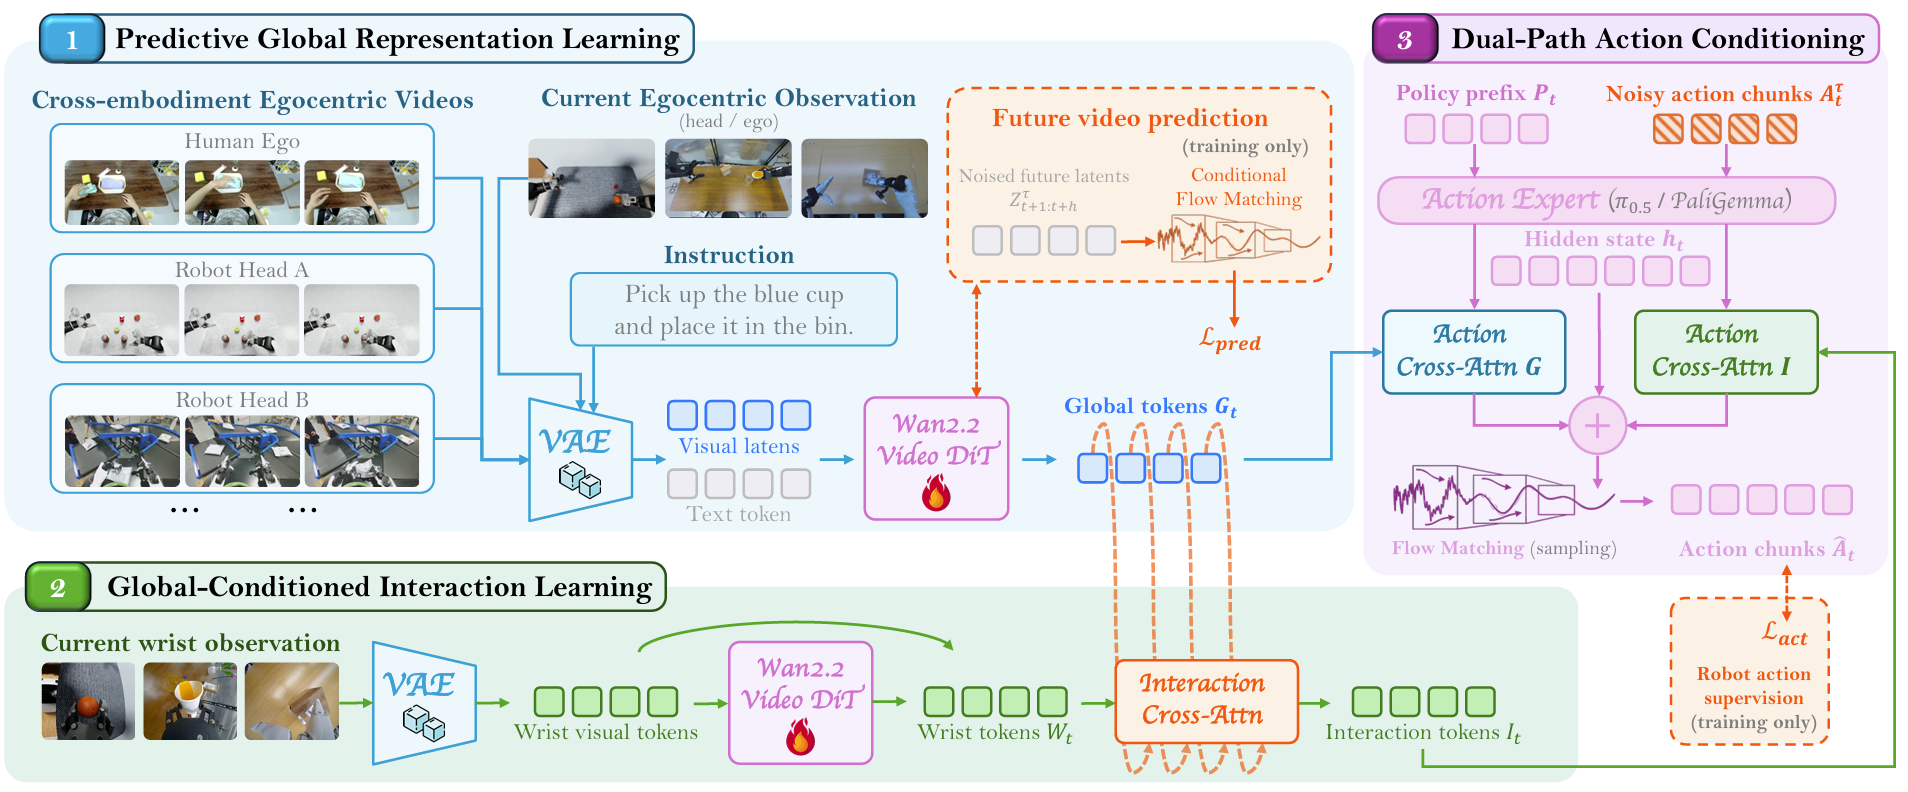
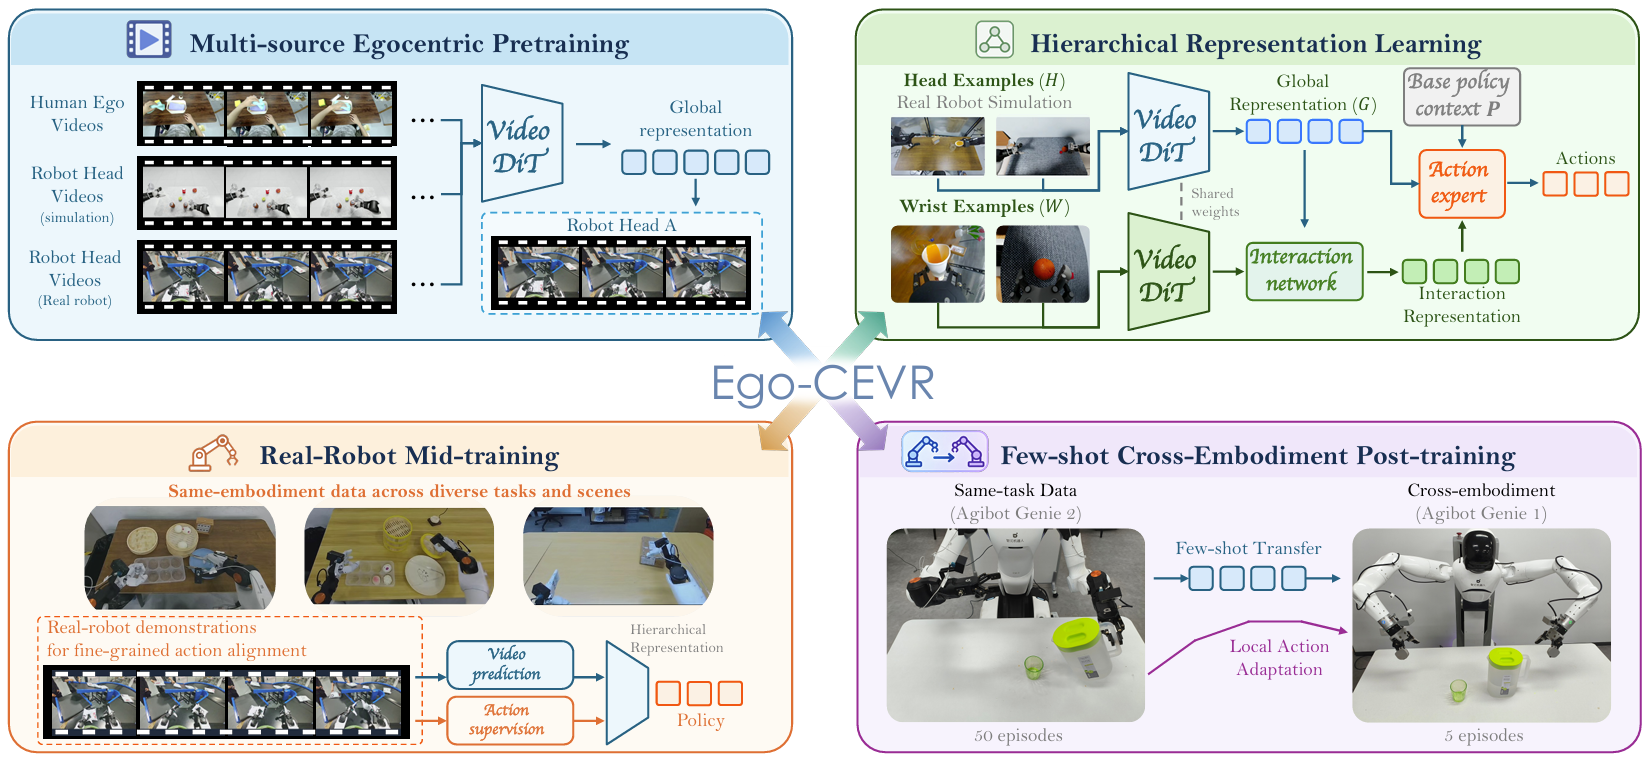
简历更新

diff --git a/_pages/about.md b/_pages/about.md
@@ -114,7 +114,7 @@ redirect_from:
 - 通过人类第一视角及机器人头部视角视频的未来预测学习全局任务表征，利用真机示教中的腕部视角与动作监督学习局部交互表征，并将两类表征接入动作策略。
 - 在 LIBERO-Plus 上取得 **90.2%** 的平均成功率，在 RoboTwin 2.0 Hard 设置下取得 **70.7%** 的成功率，并验证少样本跨本体适应能力。
 
-<img src="{{ site.baseurl }}/images/ego-cevr-framework.png" alt="Ego-CEVR 分层视觉表征与双路径动作条件化框架图" width="1908" height="792" style="width: 100%; border-radius: 4px;" loading="lazy">
+<img src="{{ site.baseurl }}/images/ego-cevr-framework.png" alt="Ego-CEVR 多源预训练、层级表征学习及跨本体适应流程图" width="1650" height="760" style="width: 100%; border-radius: 4px;" loading="lazy">
 
 </article>
 
